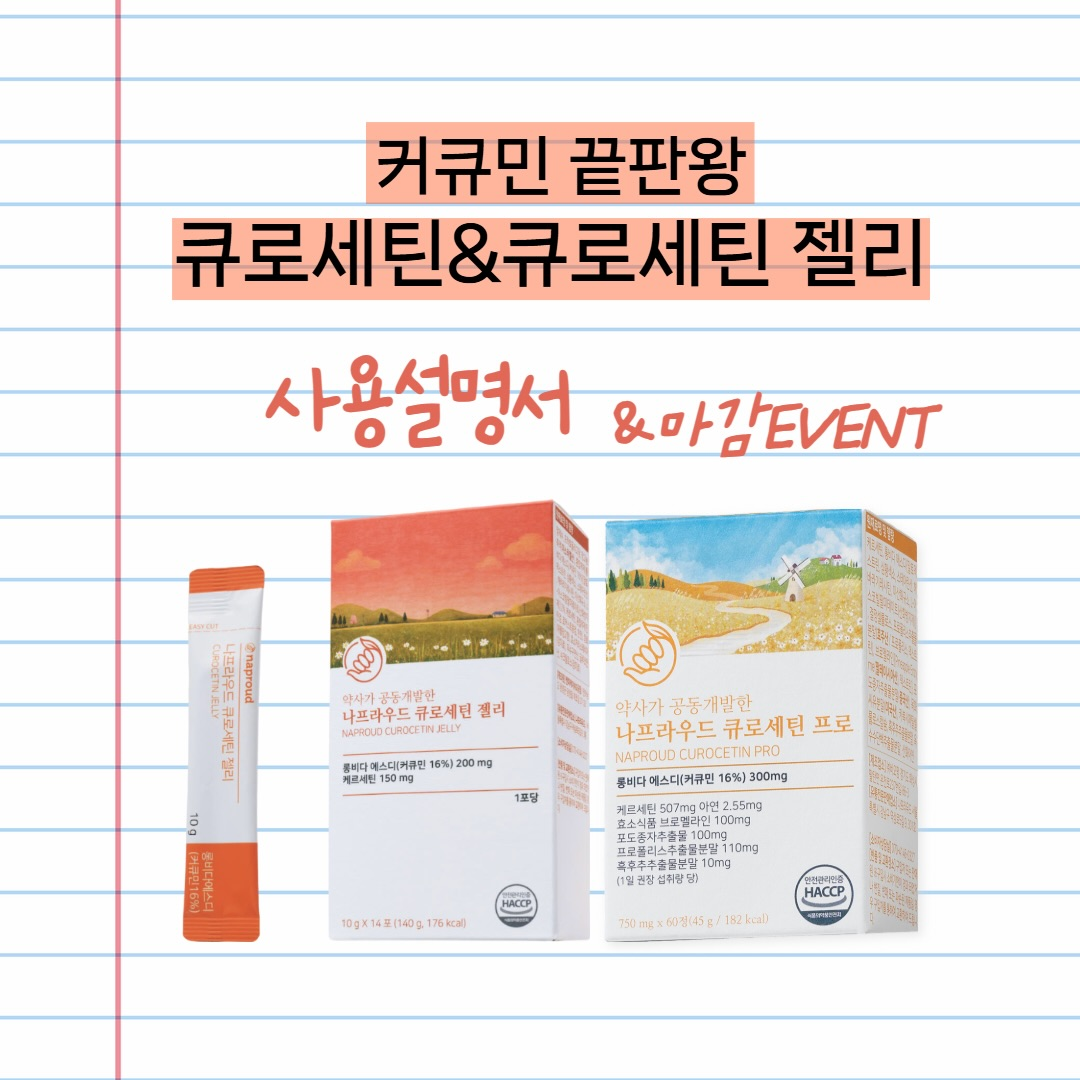
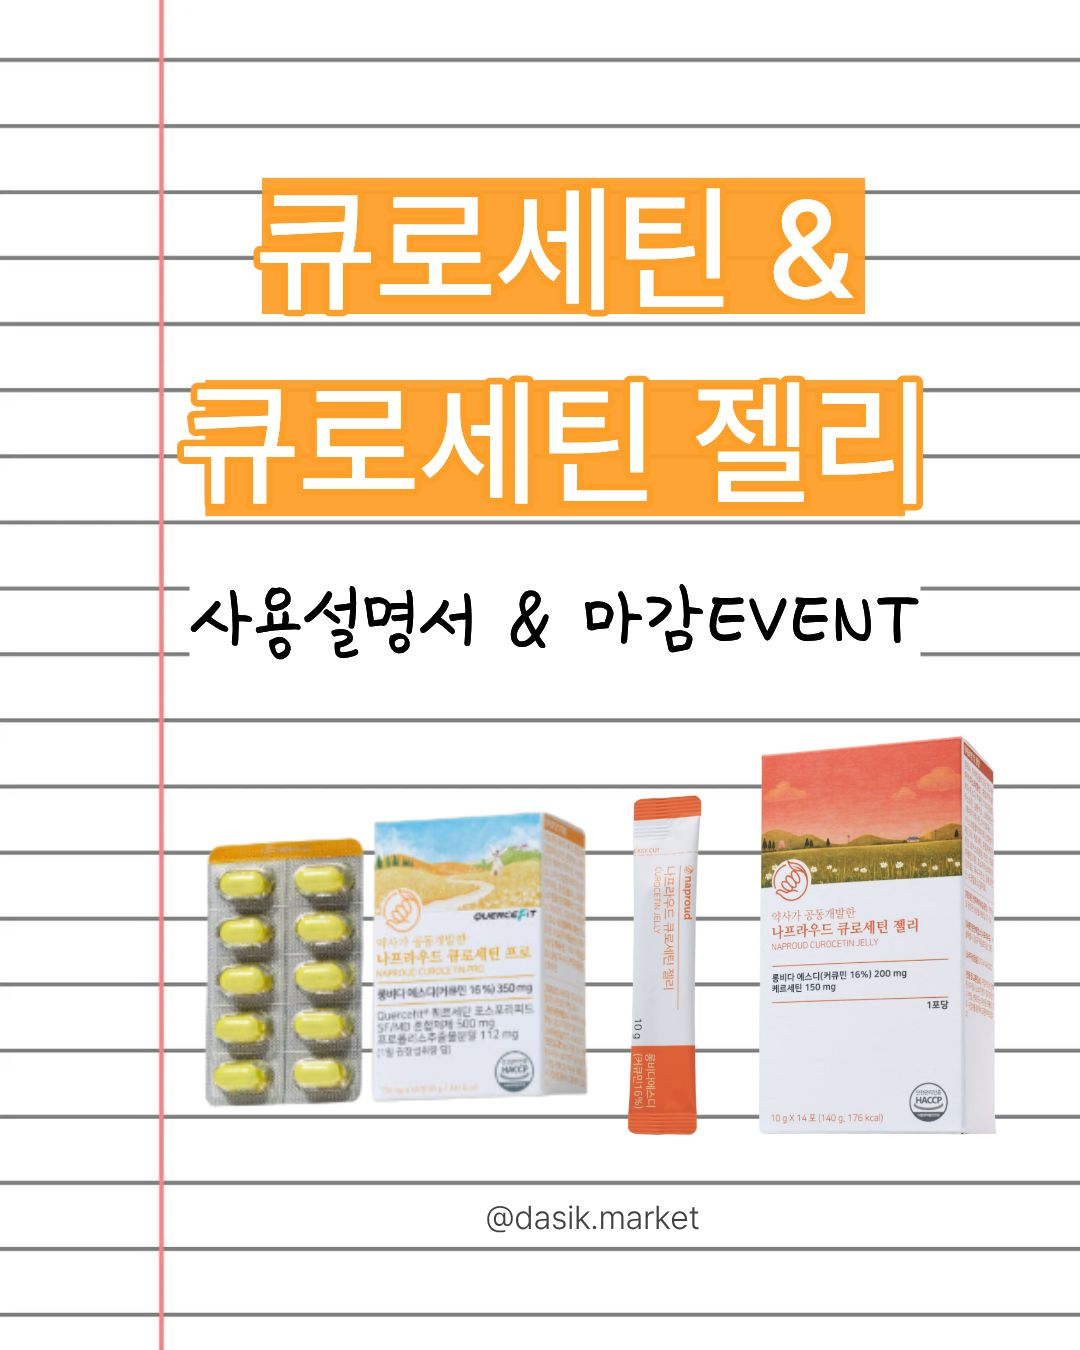
[자동] 큐로세틴 마감이벤트 링크·썸네일 업데이트

diff --git a/data.js b/data.js
@@ -393,7 +393,7 @@ const DATA = {
     {
       category: "기타",
       items: [
-        { name: "큐로세틴",  tags: ["퀘르세틴", "항산화", "염증"],  thumbnail: "images/products/prod_quercetin.jpg", link: "https://www.instagram.com/p/DWtdmBmj2gk/" },
+        { name: "큐로세틴",  tags: ["퀘르세틴", "항산화", "염증"],  thumbnail: "images/products/prod_quercetin.jpg", link: "https://www.instagram.com/p/DfYKW3MDHIQ/" },
         { name: "디오스민",  tags: ["디오스민", "붓기", "혈관"],   thumbnail: "images/products/prod_diosmin.jpg",   link: "https://www.instagram.com/p/DXy11pIj6Z4/" },
         { name: "루아빌",    tags: ["루테인", "아스타잔틴", "눈"], thumbnail: "images/products/prod_luabill.jpg",   link: "https://www.instagram.com/p/DWVE1g_D2F8/" },
         { name: "이노시톨",  tags: ["PCOS", "호르몬", "여성"],     thumbnail: "images/products/prod_inositol.jpg",  link: "https://www.instagram.com/p/DYqXWxciEL8/" },
